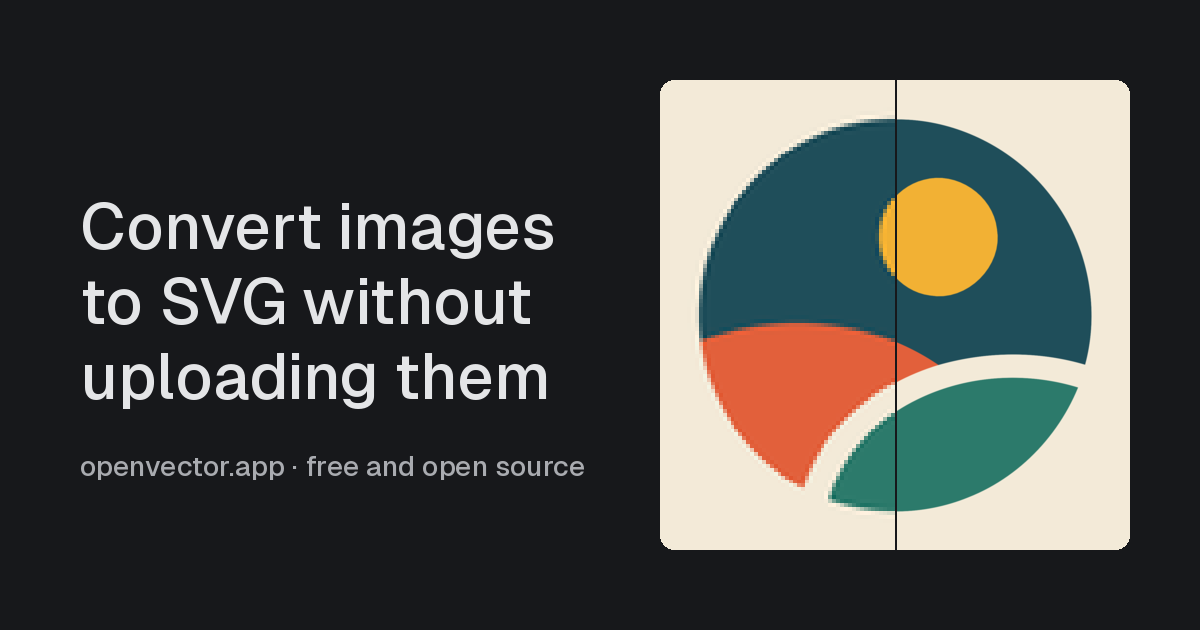
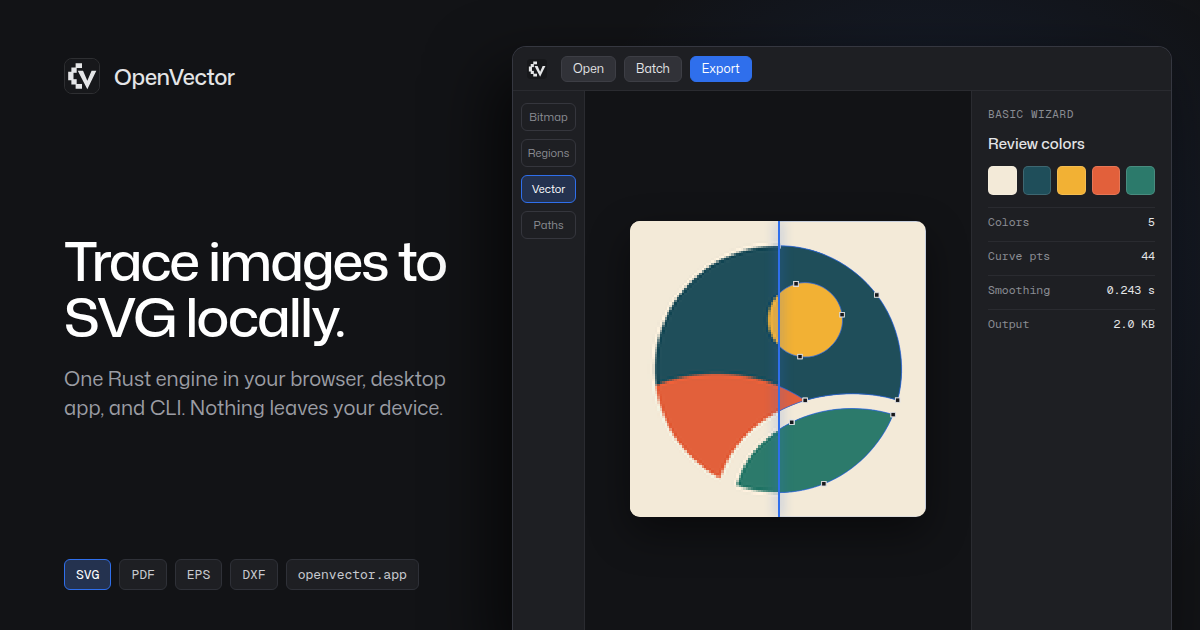
chore(web): update OG image to studio dark editor

diff --git a/web/site/index.html b/web/site/index.html
@@ -14,7 +14,7 @@
 <meta property="og:image" content="https://openvector.app/og.png">
 <meta property="og:image:width" content="1200">
 <meta property="og:image:height" content="630">
-<meta property="og:image:alt" content="A pixelated PNG beside its smooth traced SVG, with the text: Convert images to SVG without uploading them.">
+<meta property="og:image:alt" content="The OpenVector dark editor showing a pixelated PNG split against its traced SVG paths and five-color palette, with the text: Trace images to SVG locally.">
 <meta name="twitter:card" content="summary_large_image">
 <link rel="icon" href="/favicon.svg" type="image/svg+xml">
 <link rel="apple-touch-icon" href="/apple-touch-icon.png">
